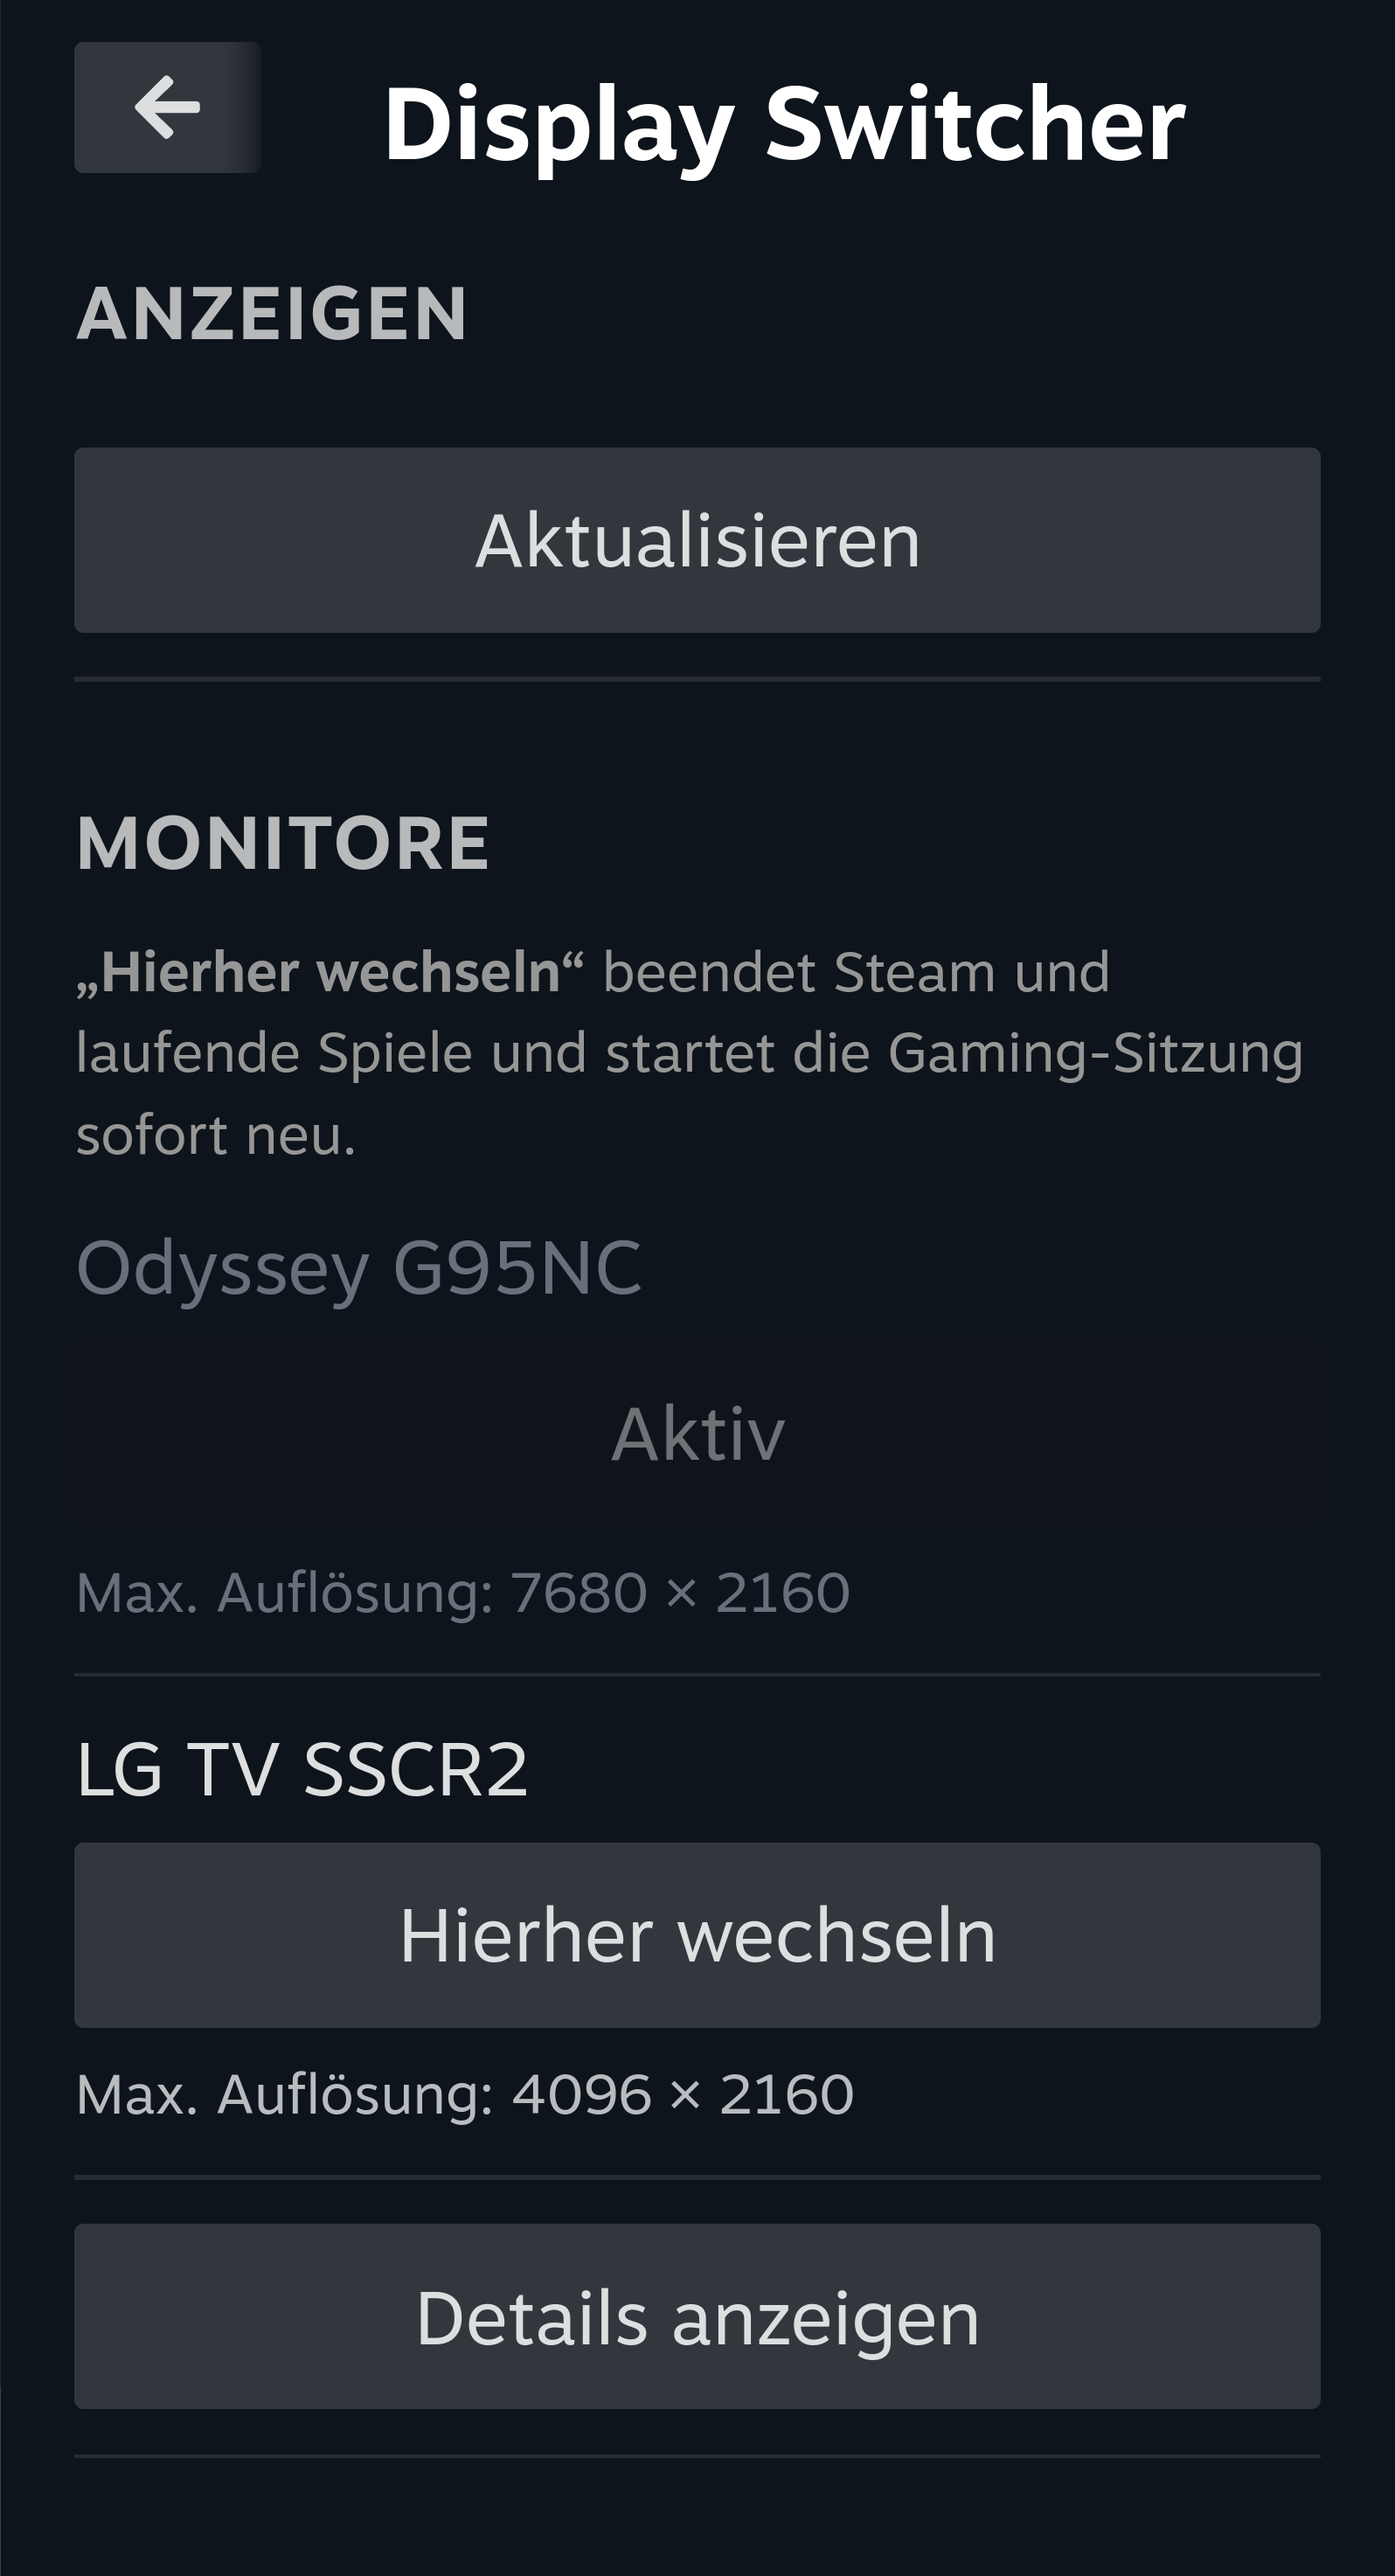
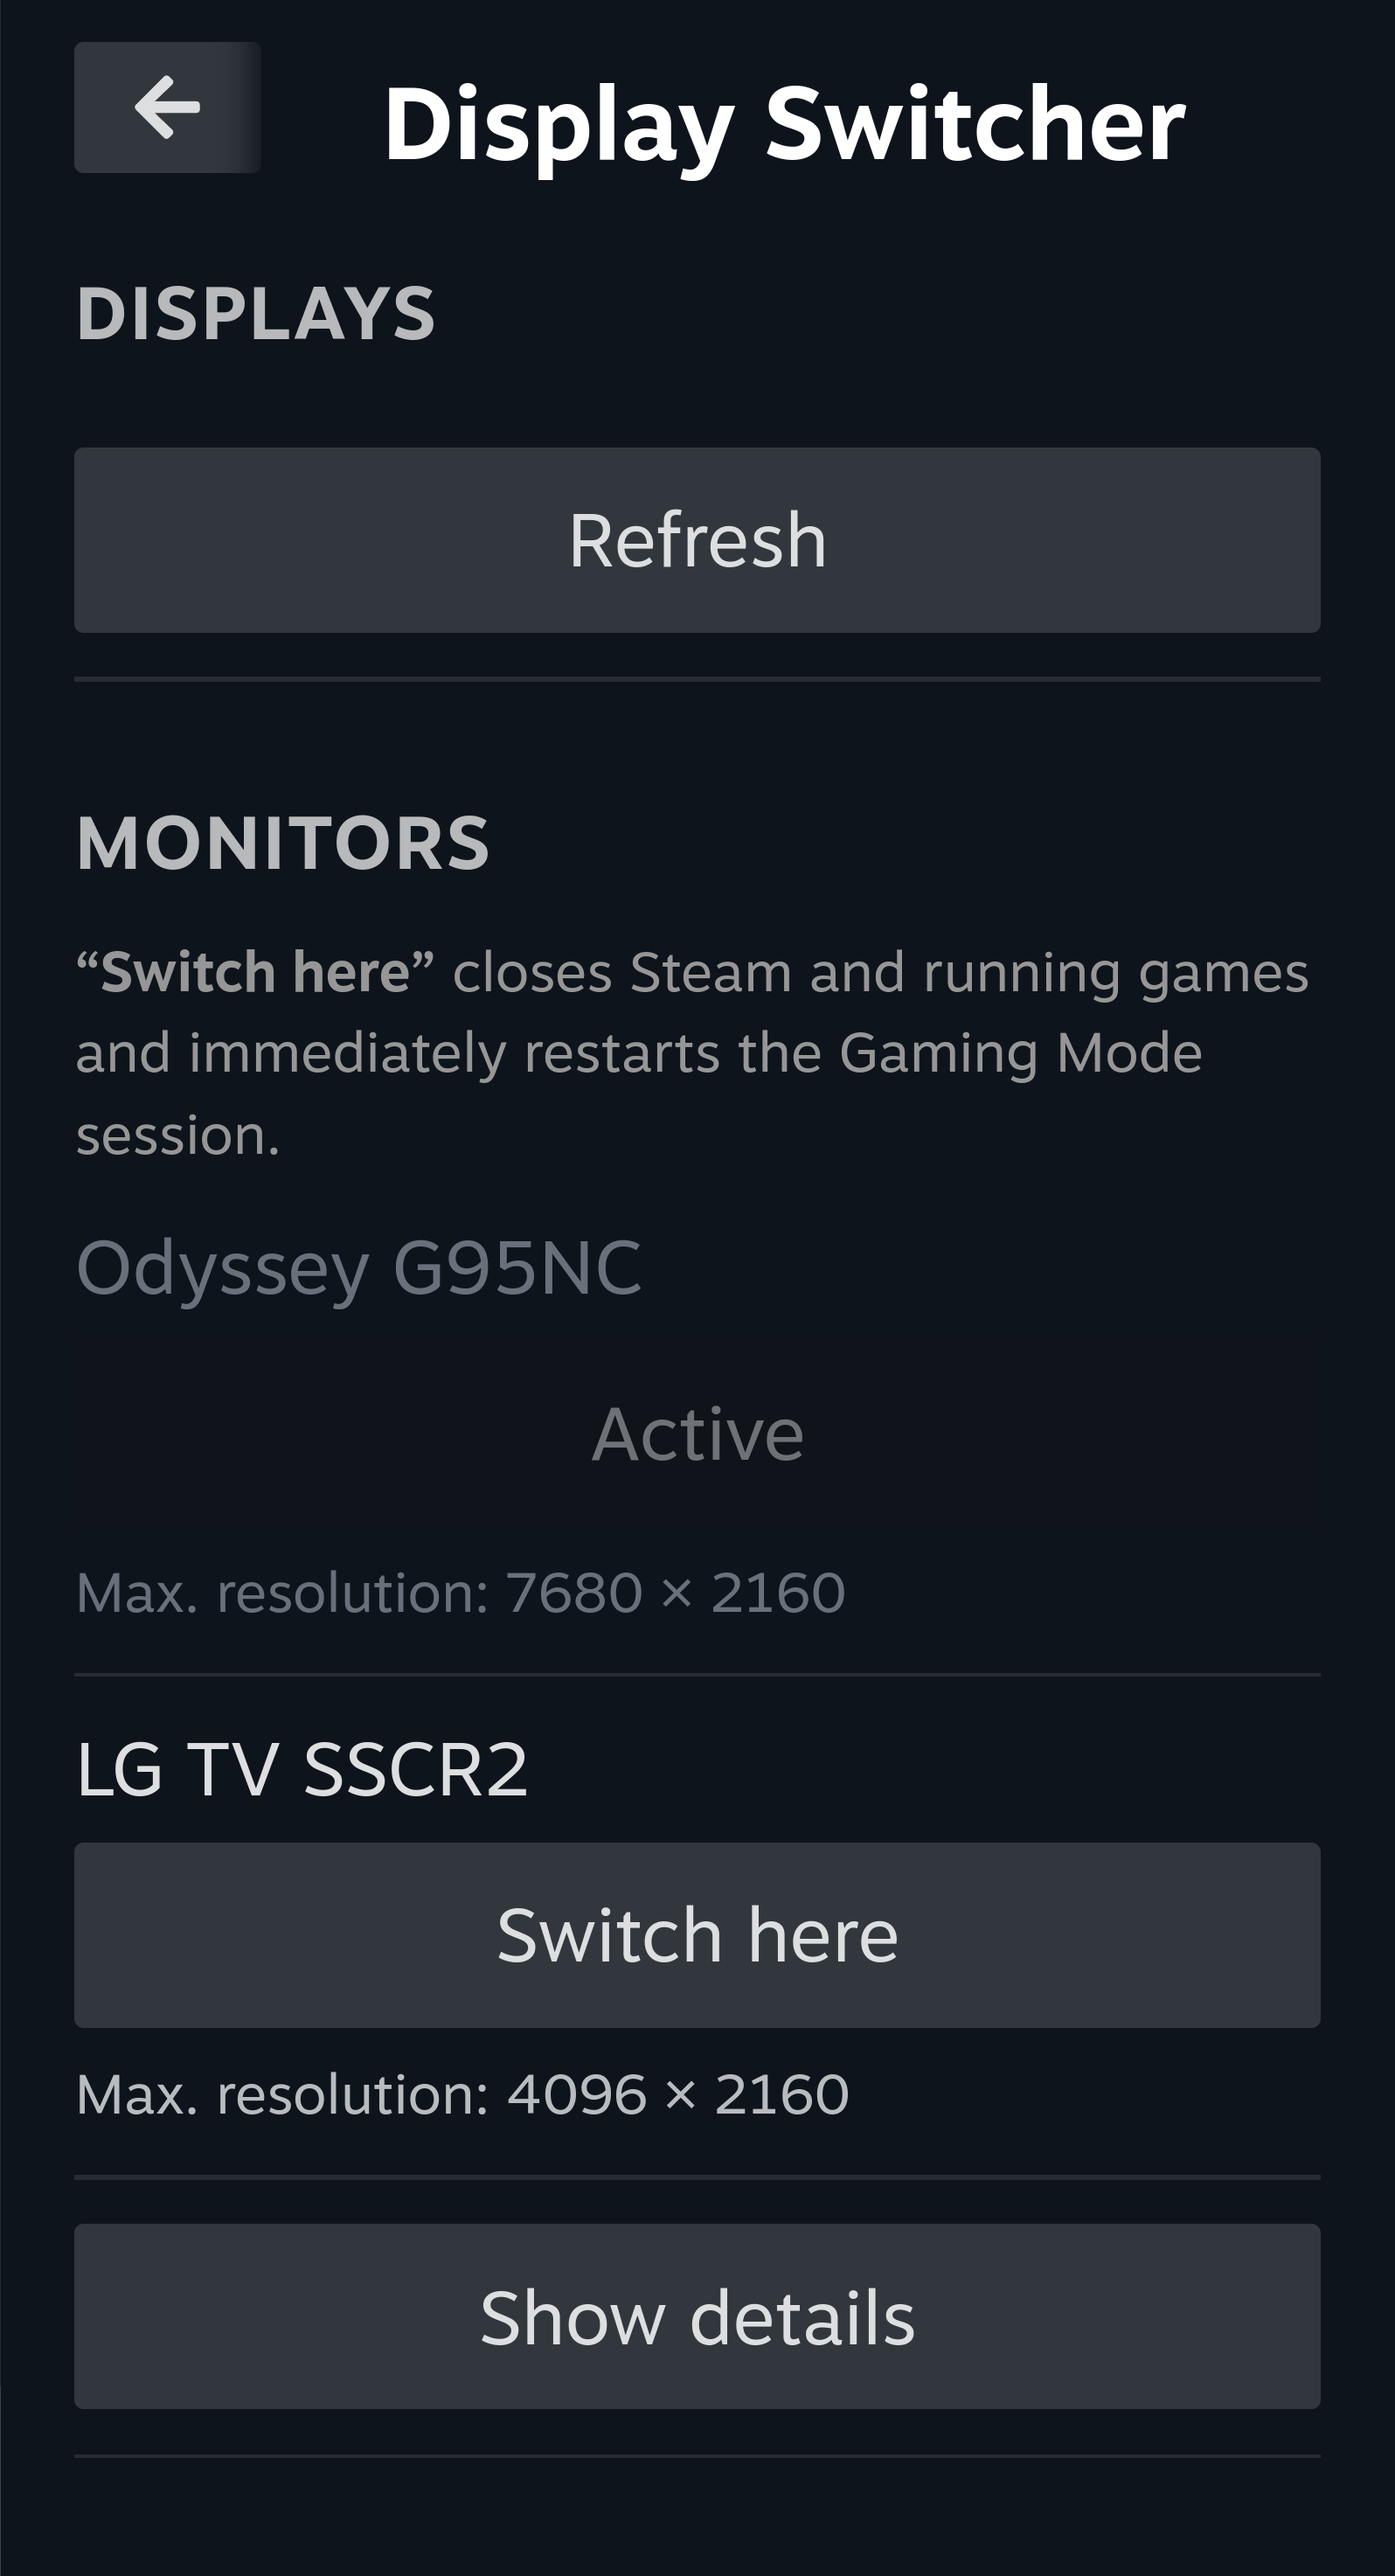
fix: use English monitor controls

diff --git a/src/index.tsx b/src/index.tsx
@@ -32,20 +32,20 @@ function maximumResolution(modes: readonly string[]): string {
       pixels = nextPixels;
     }
   }
-  return pixels ? `${width} × ${height}` : "nicht gemeldet";
+  return pixels ? `${width} × ${height}` : "not reported";
 }
 
 function DisplayDetails({ display }: { display: Display }) {
   return (
     <div style={{ fontSize: 12, lineHeight: 1.45, overflowWrap: "anywhere" }}>
-      <div>Anschluss: {display.connector}</div>
+      <div>Connector: {display.connector}</div>
       <div>
-        {display.connected ? "Verbunden" : "Nicht verbunden"}
-        {" · "}DRM: {display.enabled ? "aktiviert" : "deaktiviert"}
+        {display.connected ? "Connected" : "Disconnected"}
+        {" · "}DRM: {display.enabled ? "enabled" : "disabled"}
       </div>
-      <div>Erkennung: {display.identity_source === "edid" ? "EDID" : "Anschluss (keine gültige EDID)"}</div>
-      <div>Identität: {display.identity}</div>
-      {display.preferred && <div>Bevorzugt beim nächsten Start</div>}
+      <div>Detection: {display.identity_source === "edid" ? "EDID" : "Connector (no valid EDID)"}</div>
+      <div>Identity: {display.identity}</div>
+      {display.preferred && <div>Preferred at next startup</div>}
     </div>
   );
 }
@@ -93,7 +93,7 @@ function Content() {
       await readSnapshot(epoch);
     } catch (error: unknown) {
       if (isCurrent(epoch)) {
-        setRequestError(`Anzeigen konnten nicht geladen werden: ${errorText(error)}`);
+        setRequestError(`Could not load displays: ${errorText(error)}`);
       }
     } finally {
       if (isCurrent(epoch)) setLoading(false);
@@ -132,9 +132,9 @@ function Content() {
     try {
       const result = await switchDisplay(display.id);
       succeeded = result.ok;
-      if (!result.ok) failure = result.error ?? "Der Ausgangswechsel ist fehlgeschlagen.";
+      if (!result.ok) failure = result.error ?? "Output switching failed.";
     } catch (error: unknown) {
-      failure = `Ausgangswechsel konnte nicht bestätigt werden: ${errorText(error)}`;
+      failure = `Could not confirm the output switch: ${errorText(error)}`;
     }
 
     // A session restart can unmount this view before the RPC returns.
@@ -142,7 +142,7 @@ function Content() {
       try {
         await readSnapshot(epoch);
       } catch (error: unknown) {
-        const refreshFailure = `Status konnte nicht neu geladen werden: ${errorText(error)}`;
+        const refreshFailure = `Could not refresh the status: ${errorText(error)}`;
         failure = failure ? `${failure} ${refreshFailure}` : refreshFailure;
       }
     }
@@ -150,7 +150,7 @@ function Content() {
     if (isCurrent(epoch)) {
       setSwitching(false);
       setRequestError(failure);
-      if (succeeded) setNotice("Ausgangswechsel bestätigt.");
+      if (succeeded) setNotice("Output switch confirmed.");
     }
   };
 
@@ -160,14 +160,14 @@ function Content() {
 
   return (
     <>
-      <PanelSection title="Anzeigen">
+      <PanelSection title="Displays">
         <PanelSectionRow>
           <ButtonItem
             layout="below"
             disabled={localBusy}
             onClick={() => void refresh()}
           >
-            {loading ? "Wird geladen…" : "Aktualisieren"}
+            {loading ? "Loading…" : "Refresh"}
           </ButtonItem>
         </PanelSectionRow>
         {(requestError || snapshot?.error) && (
@@ -182,9 +182,9 @@ function Content() {
           <PanelSectionRow>
             <div role="status" style={{ fontSize: 12 }}>
               {switching
-                ? "Ausgangswechsel läuft. Steam und laufende Spiele werden beendet…"
+                ? "Switching outputs. Closing Steam and running games…"
                 : snapshot?.switching
-                  ? "Ausgangswechsel läuft. Danach den Status aktualisieren."
+                  ? "Switching outputs. Refresh the status afterwards."
                   : notice}
             </div>
           </PanelSectionRow>
@@ -193,11 +193,11 @@ function Content() {
 
       {snapshot && (
         <>
-          <PanelSection title="Monitore">
+          <PanelSection title="Monitors">
             <PanelSectionRow>
               <div style={{ fontSize: 12, lineHeight: 1.45 }}>
-                <strong>„Hierher wechseln“</strong> beendet Steam und laufende Spiele
-                und startet die Gaming-Sitzung sofort neu.
+                <strong>“Switch here”</strong> closes Steam and running games
+                and immediately restarts the Gaming Mode session.
               </div>
             </PanelSectionRow>
             {connected.length ? connected.map((display) => (
@@ -205,31 +205,31 @@ function Content() {
                 <ButtonItem
                   layout="below"
                   label={display.name}
-                  description={`Max. Auflösung: ${maximumResolution(display.modes)}`}
+                  description={`Max. resolution: ${maximumResolution(display.modes)}`}
                   disabled={switchBusy || !snapshot.integration_ready || display.active}
                   onClick={() => void startSwitch(display)}
                 >
-                  {display.active ? "Aktiv" : "Hierher wechseln"}
+                  {display.active ? "Active" : "Switch here"}
                 </ButtonItem>
               </PanelSectionRow>
             )) : (
-              <PanelSectionRow><div>Keine verbundenen Monitore erkannt.</div></PanelSectionRow>
+              <PanelSectionRow><div>No connected monitors detected.</div></PanelSectionRow>
             )}
             <PanelSectionRow>
               <ButtonItem layout="below" onClick={() => setDetailsVisible((visible) => !visible)}>
-                {detailsVisible ? "Details ausblenden" : "Details anzeigen"}
+                {detailsVisible ? "Hide details" : "Show details"}
               </ButtonItem>
             </PanelSectionRow>
           </PanelSection>
           {detailsVisible && (
-            <PanelSection title="Technische Details">
+            <PanelSection title="Technical details">
               <PanelSectionRow>
                 <div style={{ fontSize: 12, lineHeight: 1.45, overflowWrap: "anywhere" }}>
-                  <div>Gamescope-Ausgang: {snapshot.active_connector ?? "nicht ermittelbar"}</div>
-                  <div>Quelle: {snapshot.active_source ?? "keine verlässliche Ausgabeinformation"}</div>
-                  <div>Bevorzugt beim Start: {snapshot.preferred?.name ?? "automatisch"}</div>
-                  <div>Session-Anbindung: {snapshot.integration_ready ? "eingerichtet" : "nicht verfügbar"}</div>
-                  <div>Max. Auflösung ist gemeldet, nicht die aktuelle oder native Panelauflösung.</div>
+                  <div>Gamescope output: {snapshot.active_connector ?? "unknown"}</div>
+                  <div>Source: {snapshot.active_source ?? "no reliable output information"}</div>
+                  <div>Startup preference: {snapshot.preferred?.name ?? "automatic"}</div>
+                  <div>Session integration: {snapshot.integration_ready ? "ready" : "unavailable"}</div>
+                  <div>Max. resolution is advertised, not the current or native panel resolution.</div>
                 </div>
               </PanelSectionRow>
               {snapshot.displays.map((display) => (

diff --git a/README.md b/README.md
@@ -22,7 +22,7 @@ not manage resolution or refresh rate.
 
 ## Usage
 
-Open Decky → **Display Switcher**, then select **Hierher wechseln** (switch here)
+Open Decky → **Display Switcher**, then select **Switch here**
 for the desired monitor.
 
 **Switching starts immediately, without a confirmation dialog. It closes Steam
@@ -30,15 +30,15 @@ and running games, then restarts the Gaming Mode session.** Unsaved game progres
 may be lost. The screen may go black during the restart.
 
 The current output is detected through a read-only `gamescopectl` invocation.
-Its button shows **Aktiv** (active) and is disabled. DRM encoder state and the
+Its button shows **Active** and is disabled. DRM encoder state and the
 saved preference are not treated as proof of the active output. Switching is
 blocked when Gamescope's current output cannot be identified unambiguously.
 
-The compact view lists connected monitors and their **Max. Auflösung** (maximum
-resolution). **Details anzeigen** (show details) expands connector information,
+The compact view lists connected monitors and their **Max. resolution**.
+**Show details** expands connector information,
 DRM state, monitor identity, startup preference, and session integration. The
-restart warning appears in the **Monitore** (monitors) section and names the
-switch button explicitly. **Aktualisieren** (refresh) reads the current state
+restart warning appears in the **Monitors** section and names the
+switch button explicitly. **Refresh** reads the current state
 after a hotplug or cable change without restarting the session.
 
 Maximum resolution is the advertised connector mode with the largest pixel
@@ -114,14 +114,14 @@ npm exec --yes --package=pnpm@9.15.9 -- pnpm package
 
 `pnpm package` produces two files:
 
-- `release/display-switcher-2.0.3.zip`: the installable Decky plugin, including
+- `release/display-switcher-2.0.4.zip`: the installable Decky plugin, including
   license texts, third-party notices, and an embedded `sources.zip`.
-- `release/display-switcher-2.0.3-source.zip`: the complete plugin sources,
+- `release/display-switcher-2.0.4-source.zip`: the complete plugin sources,
   build configuration, lockfile, and matching Decky API sources.
 
 The embedded `sources.zip` is identical to the separate source archive. To
 rebuild, extract it and run the installation and build commands above from
-`display-switcher-2.0.3-source`. Building does not require a Steam client.
+`display-switcher-2.0.4-source`. Building does not require a Steam client.
 
 `@decky/api` is compiled directly from `third_party/decky-api/src/index.ts`,
 not from a prebuilt npm package. To use a modified library, edit the files under

diff --git a/CHANGELOG.md b/CHANGELOG.md
@@ -1,5 +1,10 @@
 # Changelog
 
+## 2.0.4 — 2026-10-04
+
+- Use English labels and status text in the monitor interface.
+- Replace the README image with a live English SteamOS screenshot.
+
 ## 2.0.3 — 2026-10-04
 
 - Include third-party licenses and Font Awesome attribution in releases.
